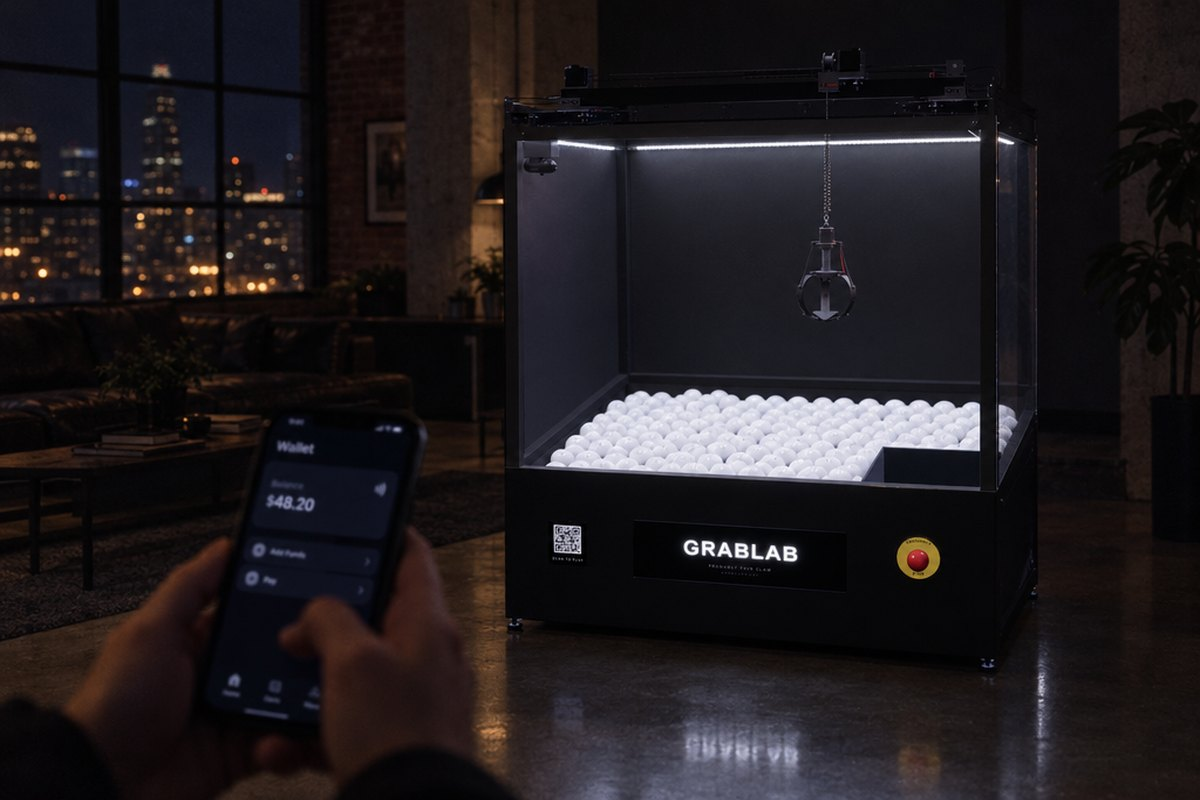
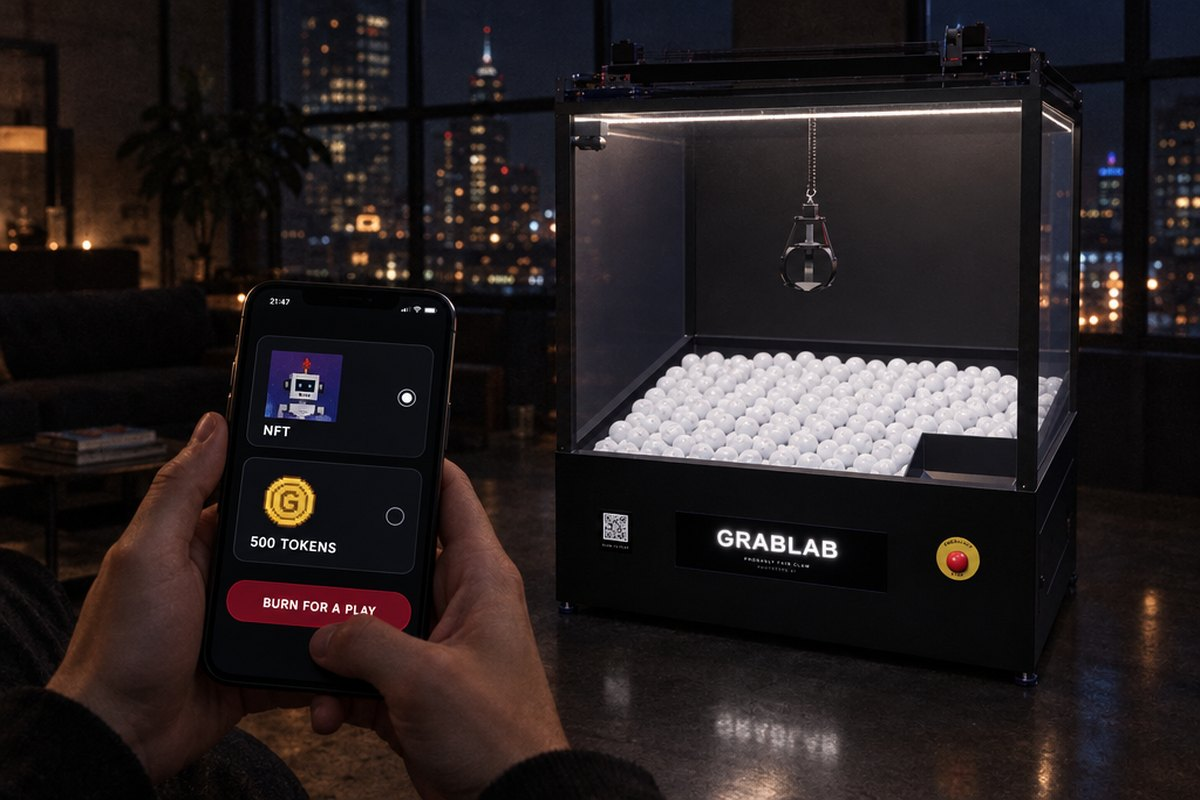
Rent formats: burn to play photo shows the NFT or token choice and the burn button

diff --git a/rent.html b/rent.html
@@ -142,7 +142,7 @@
             <dl><dt>For</dt><dd>NFT projects before mint</dd><dt>Reach</dt><dd>No Discord grind. Whoever grabs it, has a spot.</dd></dl></div>
         </div>
         <div class="fm glass glass-hover reveal d1">
-          <div class="fm-ph"><img class="fm-img" src="assets/fmt/burn.jpg?v=5" alt="" /></div>
+          <div class="fm-ph"><img class="fm-img" src="assets/fmt/burn.jpg?v=6" alt="" /></div>
           <div class="fm-b"><h3>Burn to play</h3><p class="fm-how">Burn a token or an old NFT. Get a play.</p>
             <dl><dt>For</dt><dd>Collections cutting supply</dd><dt>Reach</dt><dd>The burn event becomes a show, on-chain.</dd></dl></div>
         </div>
